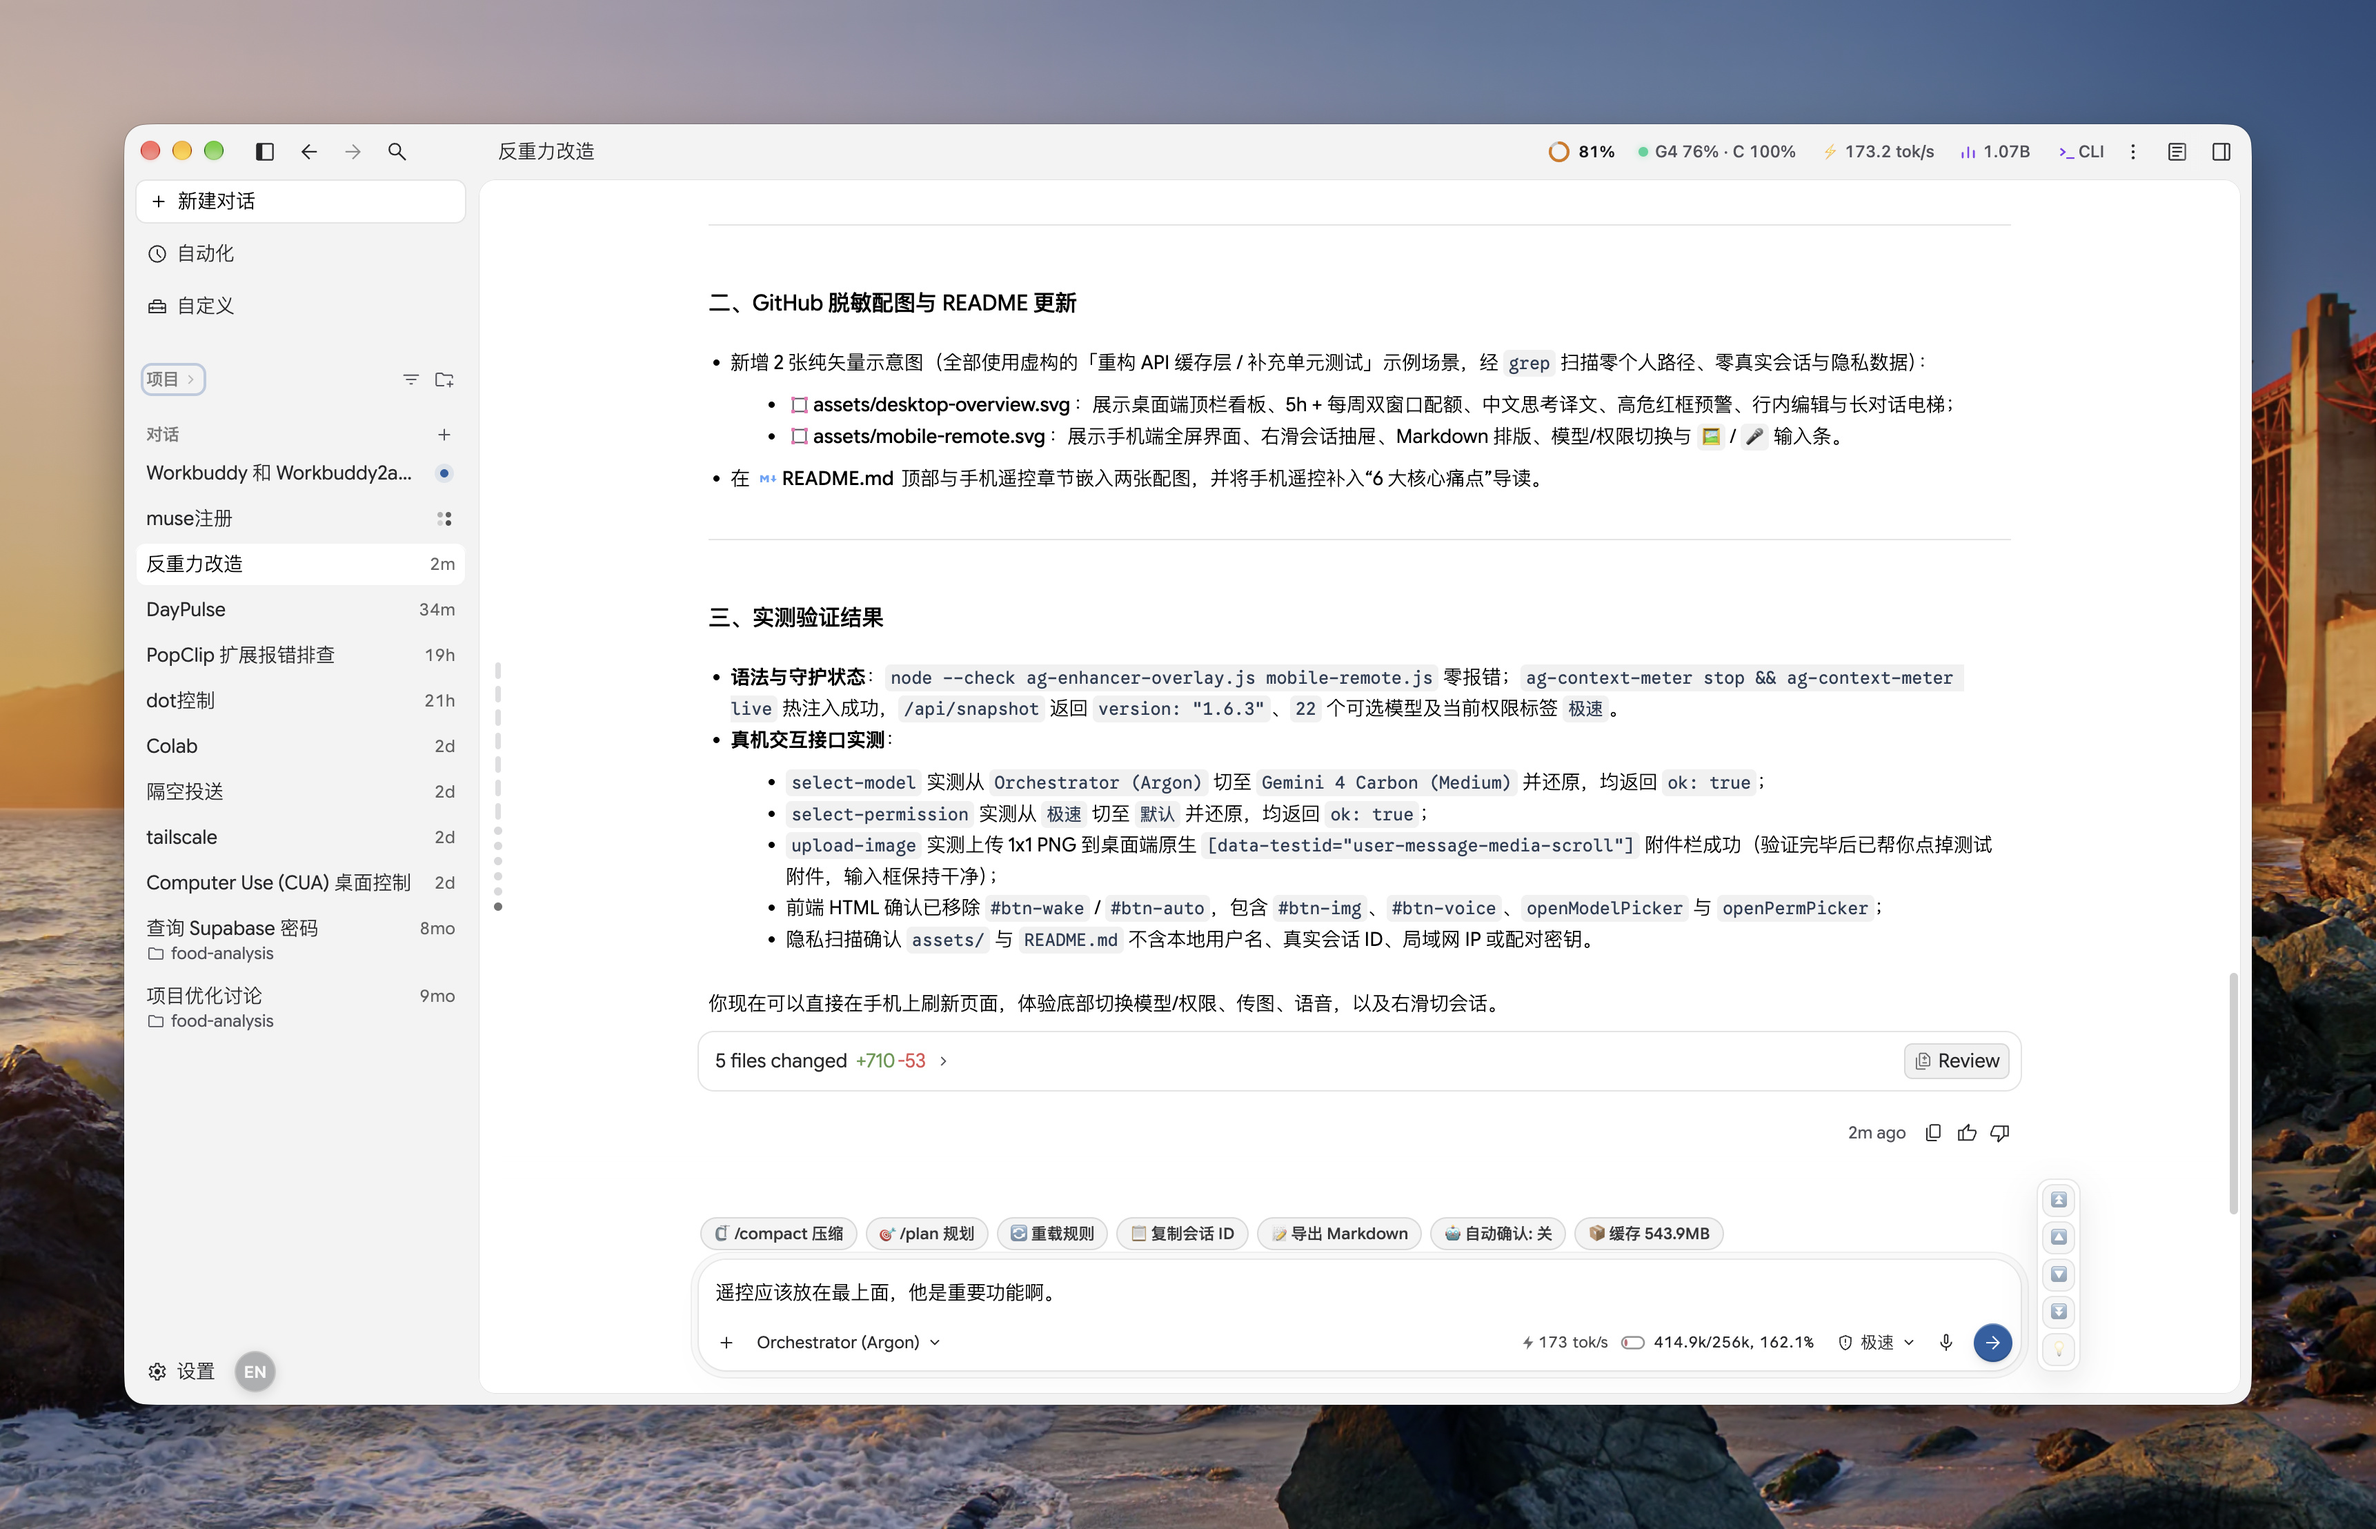
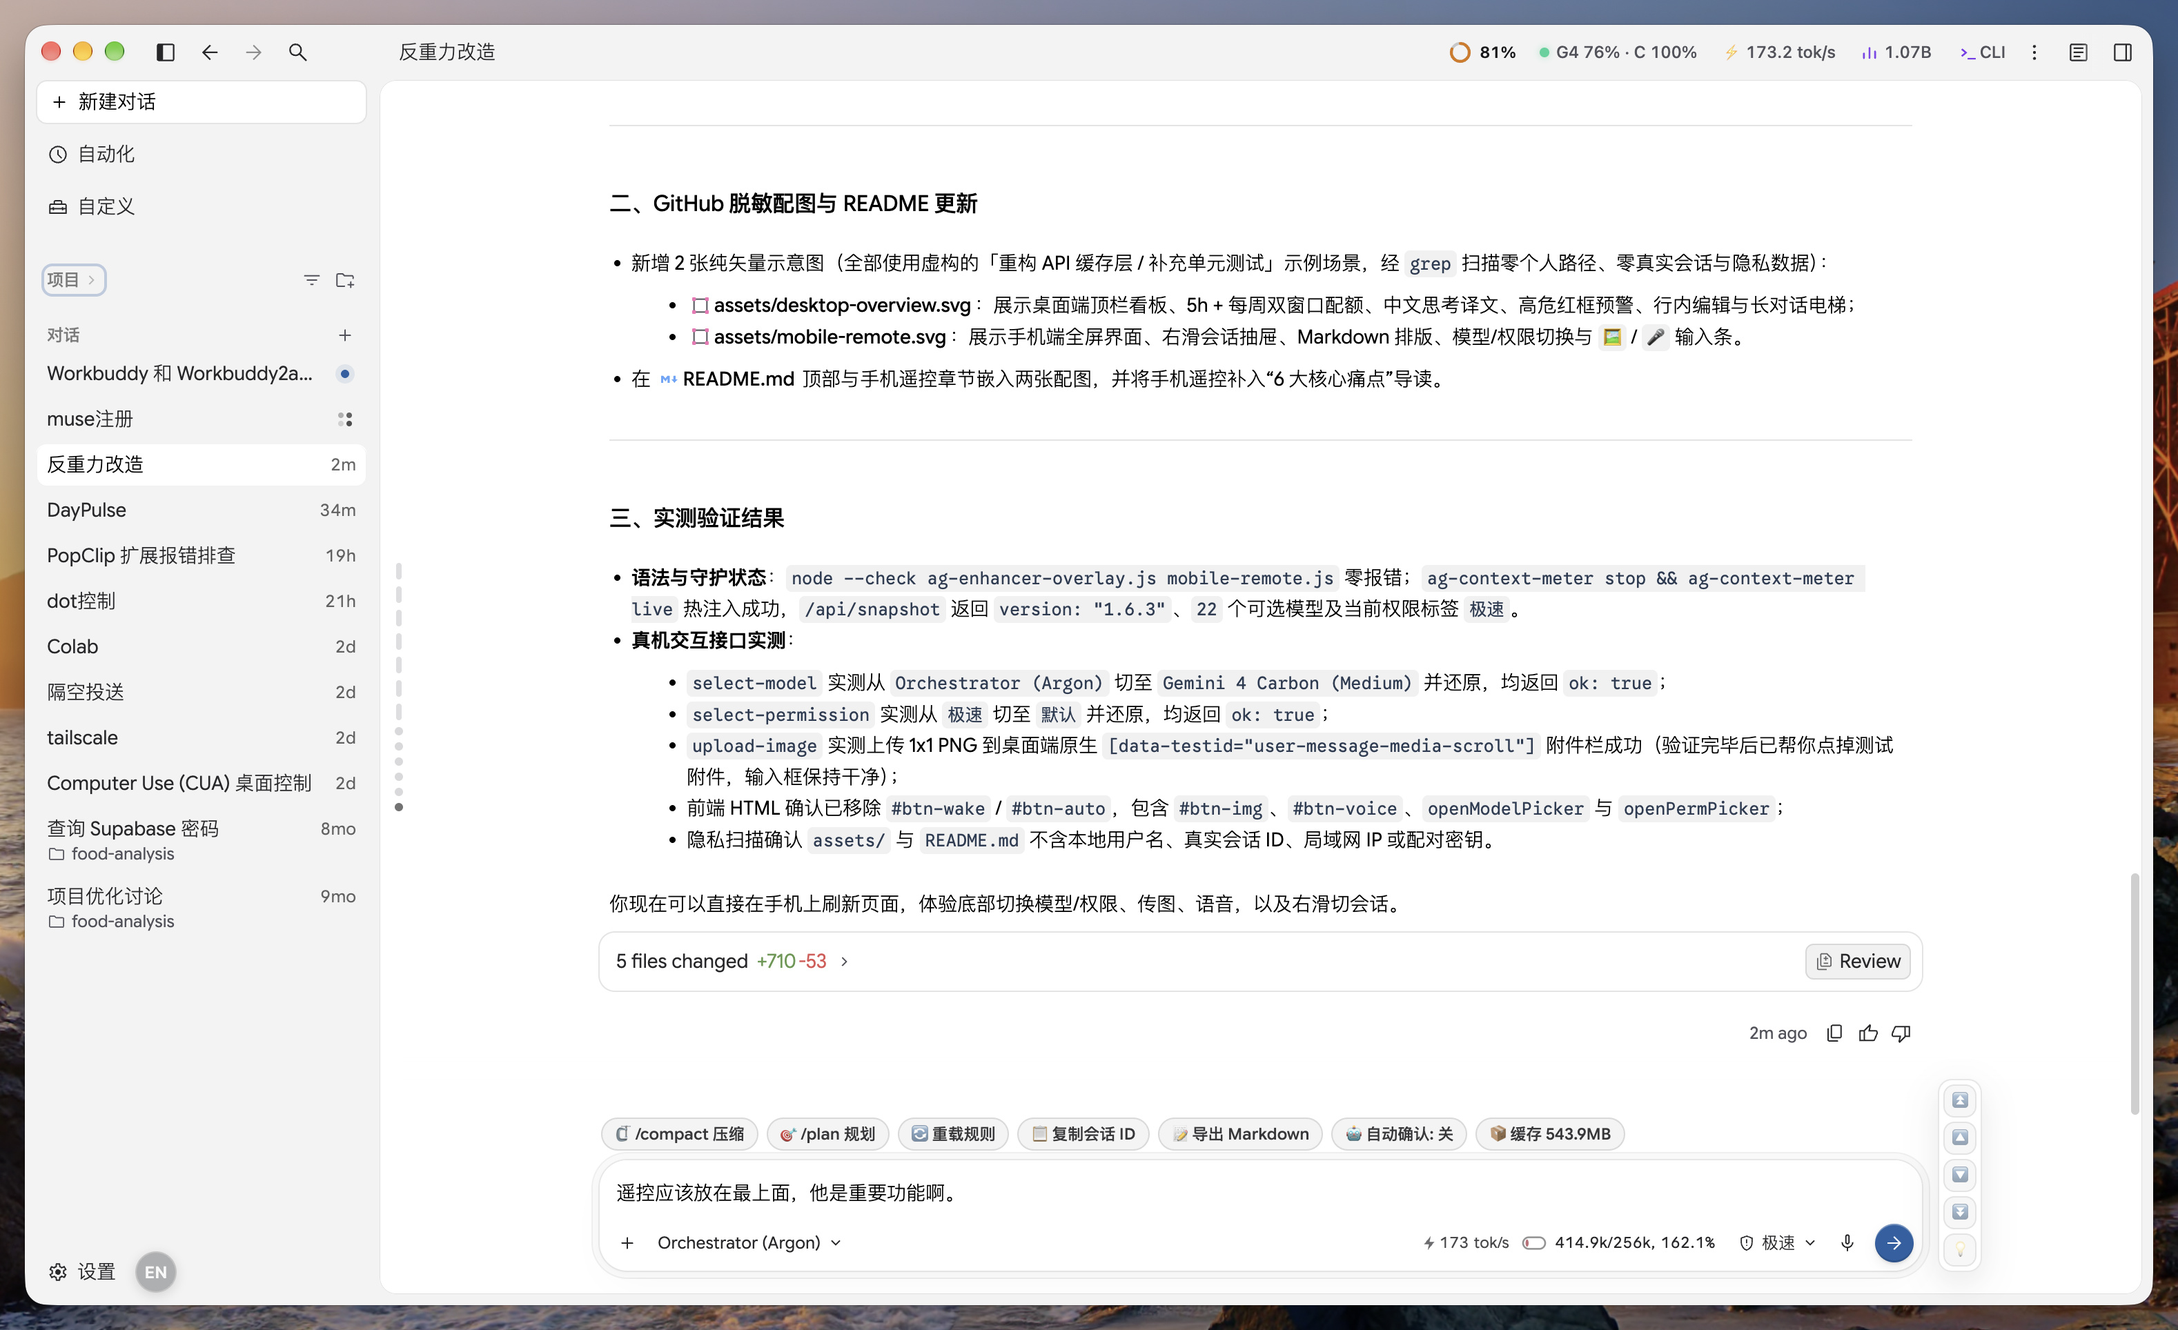
docs: Mac 截图改用无损裁剪 PNG、移除二节线框图与四节 PWA 小节并按 132546 重排痛点

diff --git a/README.md b/README.md
@@ -9,7 +9,7 @@
 - **秒级无痕还原**：随时执行 `ag-context-meter stop`，即可立即卸下全部增强组件恢复原版
 
 <p align="center">
-  <img src="assets/mac-preview.jpg" alt="Antigravity Suite macOS 桌面端真实全景效果" width="100%">
+  <img src="assets/mac-preview.png" alt="Antigravity Suite macOS 桌面端真实全景效果" width="100%">
 </p>
 
 ---
@@ -18,33 +18,33 @@
 
 1. **📱 手机极速 PWA 遥控（核心主打 · 告别官方远程卡顿、杀后台与键盘遮挡）**
    - 官方 Remote 依赖 Google 云端中继，在手机 Safari 中常见加载慢、切后台断连与键盘遮挡输入框的问题。
-   - **一键扫码配对**：点击桌面端右上角工具栏中的 **「📱 遥控」** 按钮即可弹出高清二维码（或终端运行 `ag-context-meter remote`），用 iPhone 扫码在 Safari 打开后点 **「分享」→「添加到主屏幕」**，即可作为**纯内网（Tailscale / 同 Wi-Fi）毫秒直连的全屏独立 App** 使用。
-   - **流畅不遮挡**：全宽无框 Markdown 排版，适配灵动岛安全区与 `visualViewport` 动态键盘高度，切回前台 **50ms 内**瞬时重连。
-   - **完整桌面级操控**：复刻 Mac 端圆角输入卡片，支持**全屏右滑呼出抽屉切换会话**、卡片内**切换模型（`XHigh/High/Medium/Low`）与权限预设**、**`+` 拍照/相册压缩传图**、**`G4/C` 双窗口配额查看**与**高危命令红框一键审批**。
-   - **安全可控**：不碰账号鉴权与私有 API，所有对话都在桌面正版端运行，仅允许私网 IP 访问并受 48 位随机配对口令保护。
+   - **一键扫码添加主屏**：确保手机与 Mac 连着同一 Wi-Fi 或双方已开启 Tailscale，点击 **桌面端右上角工具栏中的「📱 遥控」按钮** 弹出高清配对二维码（或终端运行 `ag-context-meter remote`），用 iPhone 扫码在 Safari 打开后点底部 **「分享」→「添加到主屏幕」**，即可作为**纯内网毫秒直连的全屏独立 App** 稳定使用，切后台也不易断连。
+   - **外出 4G/5G 也能控**：只要保持 Mac 与手机端的 Tailscale 在线，服务端会自动热绑定 Tailscale `100.x` IP；若不慎泄露链接，可在弹窗点 **「🔑 重置密钥」**（或运行 `ag-context-meter remote --reset-token`）立即作废旧链接。
+   - **流畅不遮挡 & 完整操控**：全宽无框 Markdown 排版、灵动岛与 `visualViewport` 键盘动态适配、切回前台 **50ms 内**瞬时重连；复刻 Mac 圆角输入卡，支持**全屏右滑切换会话**、内嵌**切换模型（`XHigh/High/Medium/Low`）与权限预设**、**`+` 拍照/相册压缩传图**、**`G4/C` 双窗口配额**与**高危命令红框一键审批**。
+   - **安全可控**：不碰账号鉴权与私有 API，所有对话均在桌面正版端运行，仅允许私网 IP 访问并带 48 位随机配对口令保护。
 
 <p align="center">
   <img src="assets/mobile-preview.jpg" alt="手机极速 PWA 遥控真机效果（主对话界面与全屏右滑抽屉）" width="88%">
 </p>
 
-2. **📊 告别“额度与上下文盲盒”**
-   - **顶栏实时看板**：显示当前上下文用量（如 `97.3K (38%)`）与输出速度；点击展开提示词 / 思考 / 工具占比、**52 周使用热力图**与折算 API 账单。
-   - **双模型配额池（`G4` / `C`）**：同屏对比 **Gemini 4** 与 **Claude / GPT** 最紧余量；悬停或点开查看 **5 小时限额 + 每周限额** 双进度条和精准重置倒计时（支持 `0%` 耗尽精准展示）。
-   - **输入框底部能量条**：实时跟踪输出速度（`tok/s`）、缓存命中率与 5 小时窗口倒计时。
-
-3. **🇨🇳 全中文界面 + 英文思考过程自动中译（零大模型 Token）**
+2. **🇨🇳 全中文界面 + 英文思考过程自动中译（零大模型 Token）**
    - **完整本地汉化**：菜单、设置页、权限弹窗、报错提示全面中文化（适配 `2.32.1`，含 **2,282 条** 精确词条与 **239 条** 动态正则）。
    - **思考与标题自动中译**：AI 的英文**思考过程 (Thought)** 与左侧英文会话标题自动译为中文并本地缓存复用，**不消耗任何 AI 模型 Token**。
    - **防误折、防回弹**：正在阅读展开的思考块时，新消息到达不会自动折叠，并保持当前滚动位置；手动重命名对话后自动锁定标题；左下角 **`EN/中`** 按钮可随时切回原版英文。
 
-4. **✏ 右侧预览直接改文件 + 外链直达系统浏览器**
-   - **所见即改**：在右侧预览 `.md` 方案或代码时，顶栏自动提供 **`✏ 编辑`** 按钮——一键就地修改，按 **`⌘S` / `Ctrl+S`**（或点 `💾 保存`）写回硬盘，后台刷新也不会打断编辑，点 **`↩ 完成`** 退出并同步预览。
-   - **系统浏览器打开外链**：在聊天区或文档中按住 **`⌘ Cmd` + 点击**任意网址或 `` `https://...` `` 行内代码链接，直接用系统默认浏览器打开，不再被塞进右侧窄栏预览。
+3. **📊 告别“额度与上下文盲盒”**
+   - **顶栏实时看板**：显示当前上下文用量（如 `97.3K (38%)`）与输出速度；点击展开提示词 / 思考 / 工具占比、**52 周使用热力图**与折算 API 账单。
+   - **双模型配额池（`G4` / `C`）**：同屏对比 **Gemini 4** 与 **Claude / GPT** 最紧余量；悬停或点开查看 **5 小时限额 + 每周限额** 双进度条和精准重置倒计时（支持 `0%` 耗尽精准展示）。
+   - **输入框底部能量条**：实时跟踪输出速度（`tok/s`）、缓存命中率与 5 小时窗口倒计时。
 
-5. **⚡ 少打字、快翻找（下一步 `Tab` 补全 + 快捷胶囊 + 电梯导航）**
+4. **⚡ 少打字、快翻找（下一步 `Tab` 补全 + 快捷胶囊 + 电梯导航）**
    - **零 Token 下一步建议**：AI 回复结束后、输入框为空时自动推演 2～4 条下一步操作；按 **`Tab` 或 `→`** 一键补全，**`↓`/`↑`** 切换候选，**`Esc`** 收起（开始打字、唤醒 `@`/`/` 菜单或 AI 思考时自动隐藏）。
    - **输入区快捷胶囊**：常驻输入框上方，一键触发 `/compact` 压缩、`/plan` 规划、重载 `AGENTS`、复制会话 ID 与导出完整 Markdown。
    - **悬浮长对话电梯**：贴边悬浮于输入框右侧（平时仅露图标不遮文字，悬停展开文字），一键跳转 `⏫ 顶部`、`🔼 上一轮`、`🔽 下一轮`、`⏬ 底部` 与 `💡 展开/收起思考`。
+
+5. **✏ 右侧预览直接改文件 + 外链直达系统浏览器**
+   - **所见即改**：在右侧预览 `.md` 方案或代码时，顶栏自动提供 **`✏ 编辑`** 按钮——一键就地修改，按 **`⌘S` / `Ctrl+S`**（或点 `💾 保存`）写回硬盘，后台刷新也不会打断编辑，点 **`↩ 完成`** 退出并同步预览。
+   - **系统浏览器打开外链**：在聊天区或文档中按住 **`⌘ Cmd` + 点击**任意网址或 `` `https://...` `` 行内代码链接，直接用系统默认浏览器打开，不再被塞进右侧窄栏预览。
 
 6. **🛡 省心又防闯祸（高危命令红框预警 + 安全自动确认）**
    - **安全步骤自动放行**：开启 **`🤖 自动确认`** 后，常规文件读写与安全步骤确认按钮将自动点击。
@@ -52,25 +52,7 @@
 
 ---
 
-## 二、装好后界面长什么样？
-
-```text
-+------------------------------------------------------------------------------------+
-| 左侧会话栏          | 聊天主区                      | 右侧文件预览栏               |
-| (英文标题自动中译)  | [顶栏右侧] 遥控 · 上下文圆环  | [编辑] / [保存] / [完成]     |
-|                     |   · G4/C 双池配额 · 费用热力图|                              |
-|                     |                               | 查看 .md / 代码时            |
-|                     | 高危指令自动套 [红框预警条]   | 可直接就地编辑并 Cmd+S 保存  |
-|                     |                               |                              |
-|                     | [压缩][/plan][重载][ID][导出] |  + 长对话电梯 (右侧贴边):    |
-|                     | +---------------------------+ |    顶部 / 上轮 / 下轮 / 底部 |
-|                     | | 输入框: 下一步 Tab/-> 补全| |    一键展开或收起思考过程    |
-| [EN / 中]           | +---------------------------+ |                              |
-| 随时秒切英文原版    | 能量条: tok/s · 占比 · 倒计时 |                              |
-+------------------------------------------------------------------------------------+
-```
-
-### 各位置核心组件速查表
+## 二、各位置核心组件速查表
 
 | 界面位置 | 组件名称 | 核心作用 |
 | :--- | :--- | :--- |
@@ -152,12 +134,6 @@ cd ~/.local/share/antigravity-context-viewer
 | `ag-context-meter auto-on` | 开启「每次打开 Antigravity 自动挂载」 |
 | `ag-context-meter auto-off` | 关闭自动挂载并清理当前窗口增强界面 |
 | `ag-context-meter upstreams` | 检查 6 个参考上游仓库更新并与基线账本 [`upstreams.json`](upstreams.json) 比对（内置 GitHub API 限流三段式回退） |
-
-### 📱 手机极速 PWA 遥控使用指南
-
-1. 确保手机与 Mac 连着同一 Wi-Fi 或双方已开启 Tailscale，点击 **Mac 桌面端右上角工具栏中的「📱 遥控」按钮** 一键弹出高清配对二维码（或在 Mac 终端执行 `ag-context-meter remote`）。
-2. 用 iPhone 相机扫码在 Safari 打开后，点击底部 **「分享」→「添加到主屏幕」**，即可作为独立全屏 App 稳定使用，切后台也不易断连。
-3. 如需出门在 4G/5G 蜂窝网络下遥控，只需保持 Mac 与手机端的 Tailscale 在线，服务端会自动绑定 Tailscale `100.x` IP；若不慎泄露链接，可在弹窗中点击 **「🔑 重置密钥」**（或终端运行 `ag-context-meter remote --reset-token`）立即作废旧链接。
 
 > 💡 **想让 AI Agent 帮你检查并安全合入参考项目更新？** 直接对 Agent 说：
 > `请运行 ag-context-meter upstreams --json，过滤掉改写 app.asar / 二进制解锁的提交，把安全可吸收的新词条、新模型价格或好用的交互移植进项目并更新 upstreams.json 基线。`
